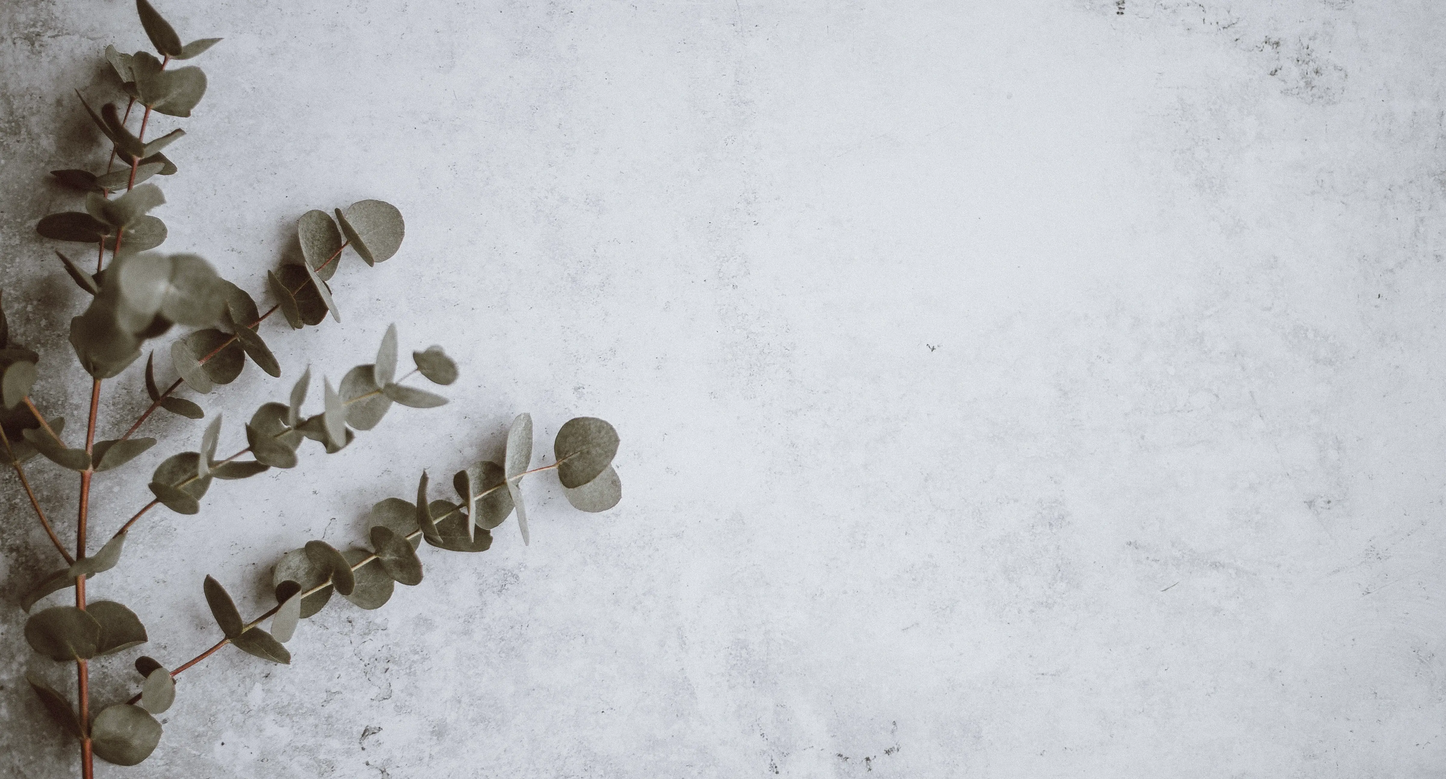
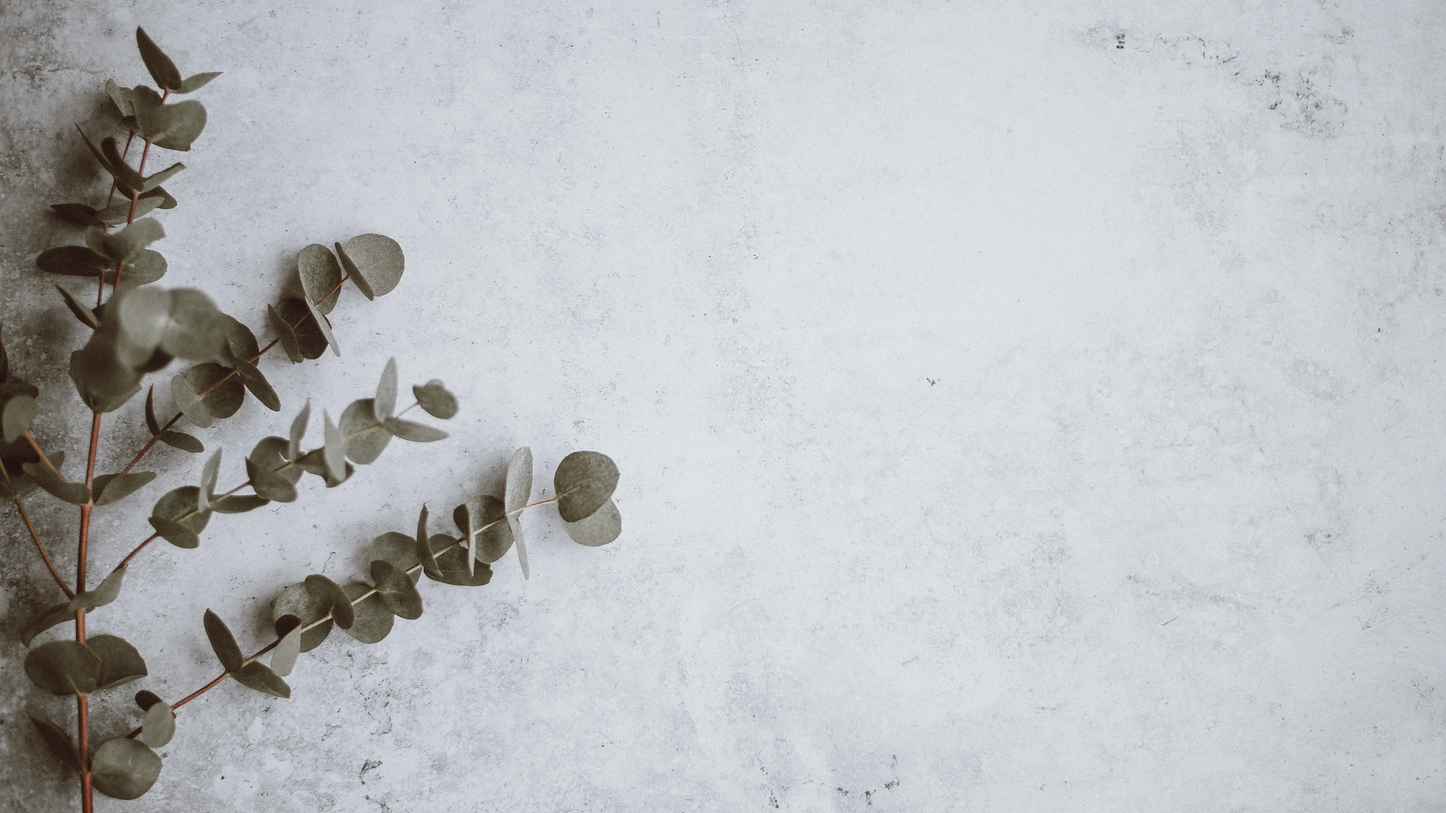
aspect ratio på baggrundsbilledet på forsiden

diff --git a/style.css b/style.css
@@ -138,10 +138,13 @@ p {
 }
 
 /* på billde, h1 og h2, så overskrifterne ligger ovenpå billedet */
-.container {
+.forside {
   display: grid;
-  /* aspect-ratio: 16/9; */
+  /* betyder at baggrundsbilledet er 1920 (højde) x 1080 (bredde) is a 16:9 aspect ratio */
+  /* 16:9 er et skærmformat og bruges til et baggrundsbillede på en website */
+  aspect-ratio: 16/9;
   place-items: center;
+  padding-bottom: 15px;
 }
 
 /* h1 og h2 er ovenpå billedet */

diff --git a/index.html b/index.html
@@ -28,7 +28,7 @@
       </nav>
     </header>
     <main>
-      <div class="container">
+      <div class="forside">
         <img class="img1" src="billeder/baggrund.webp" alt="forsiden" />
         <h1 class="overskrift1">Portfolio site</h1>
         <h2 class="overskrift2">Amalie Forum</h2>
